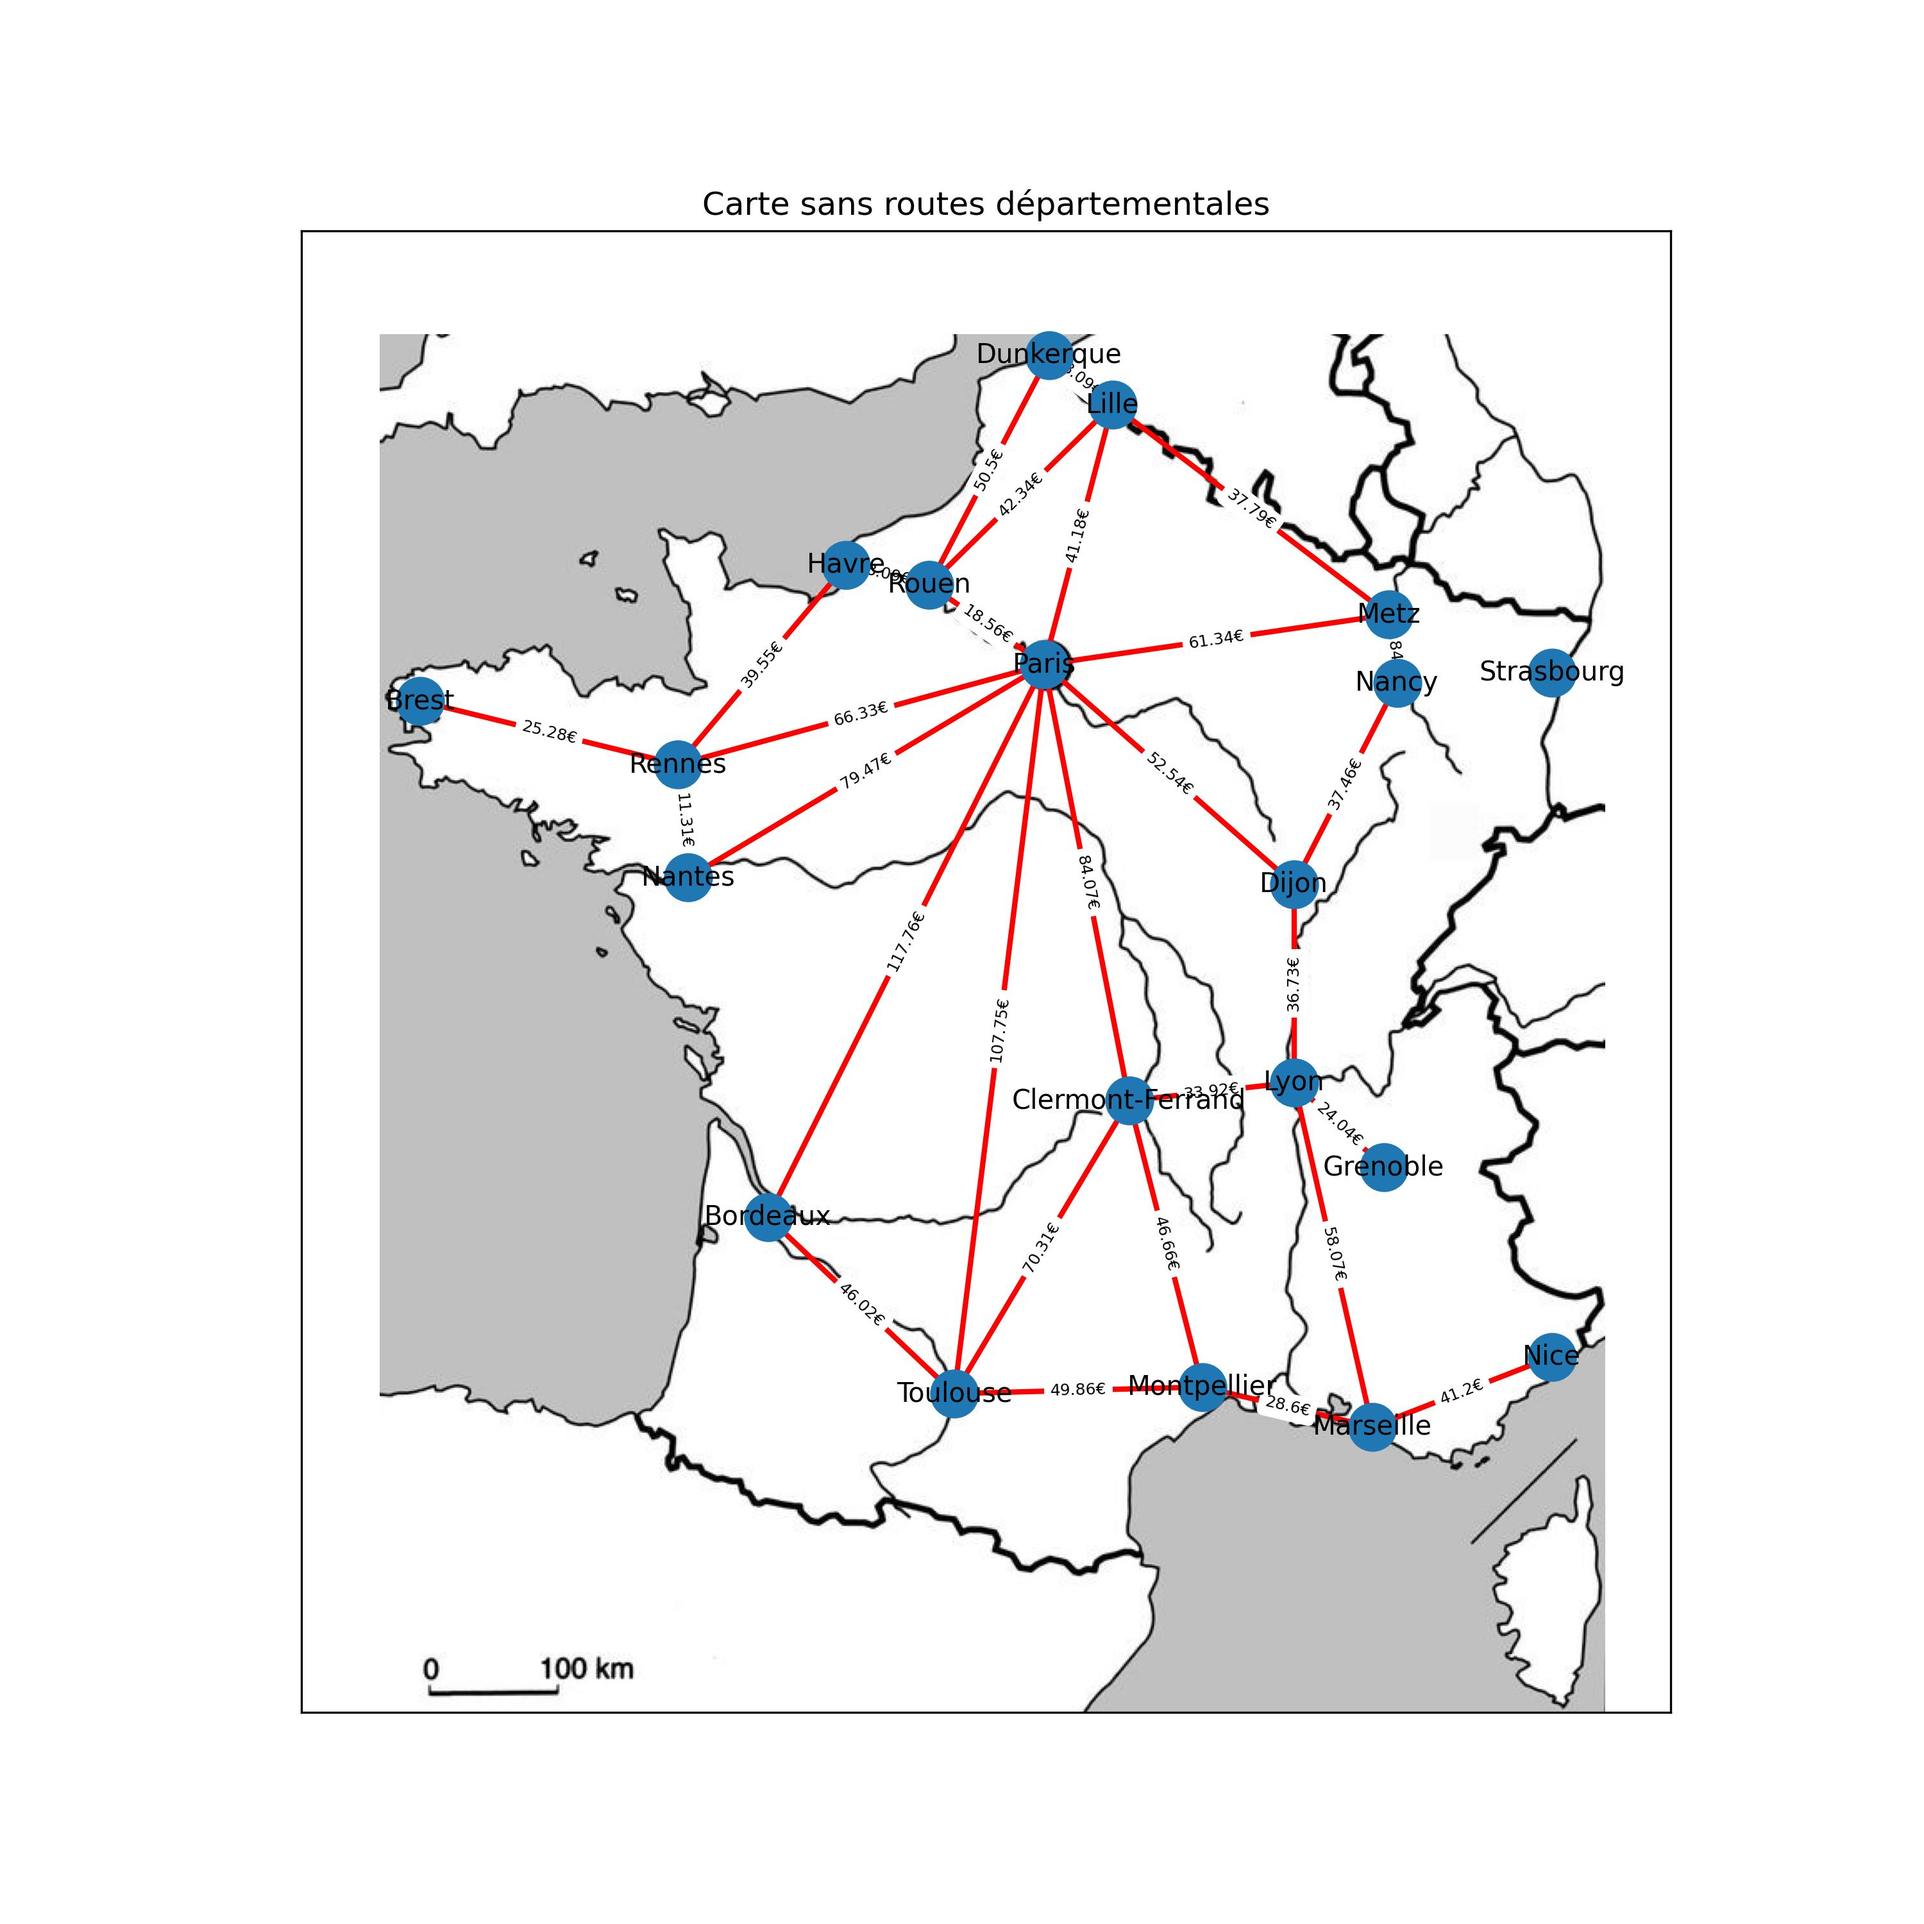
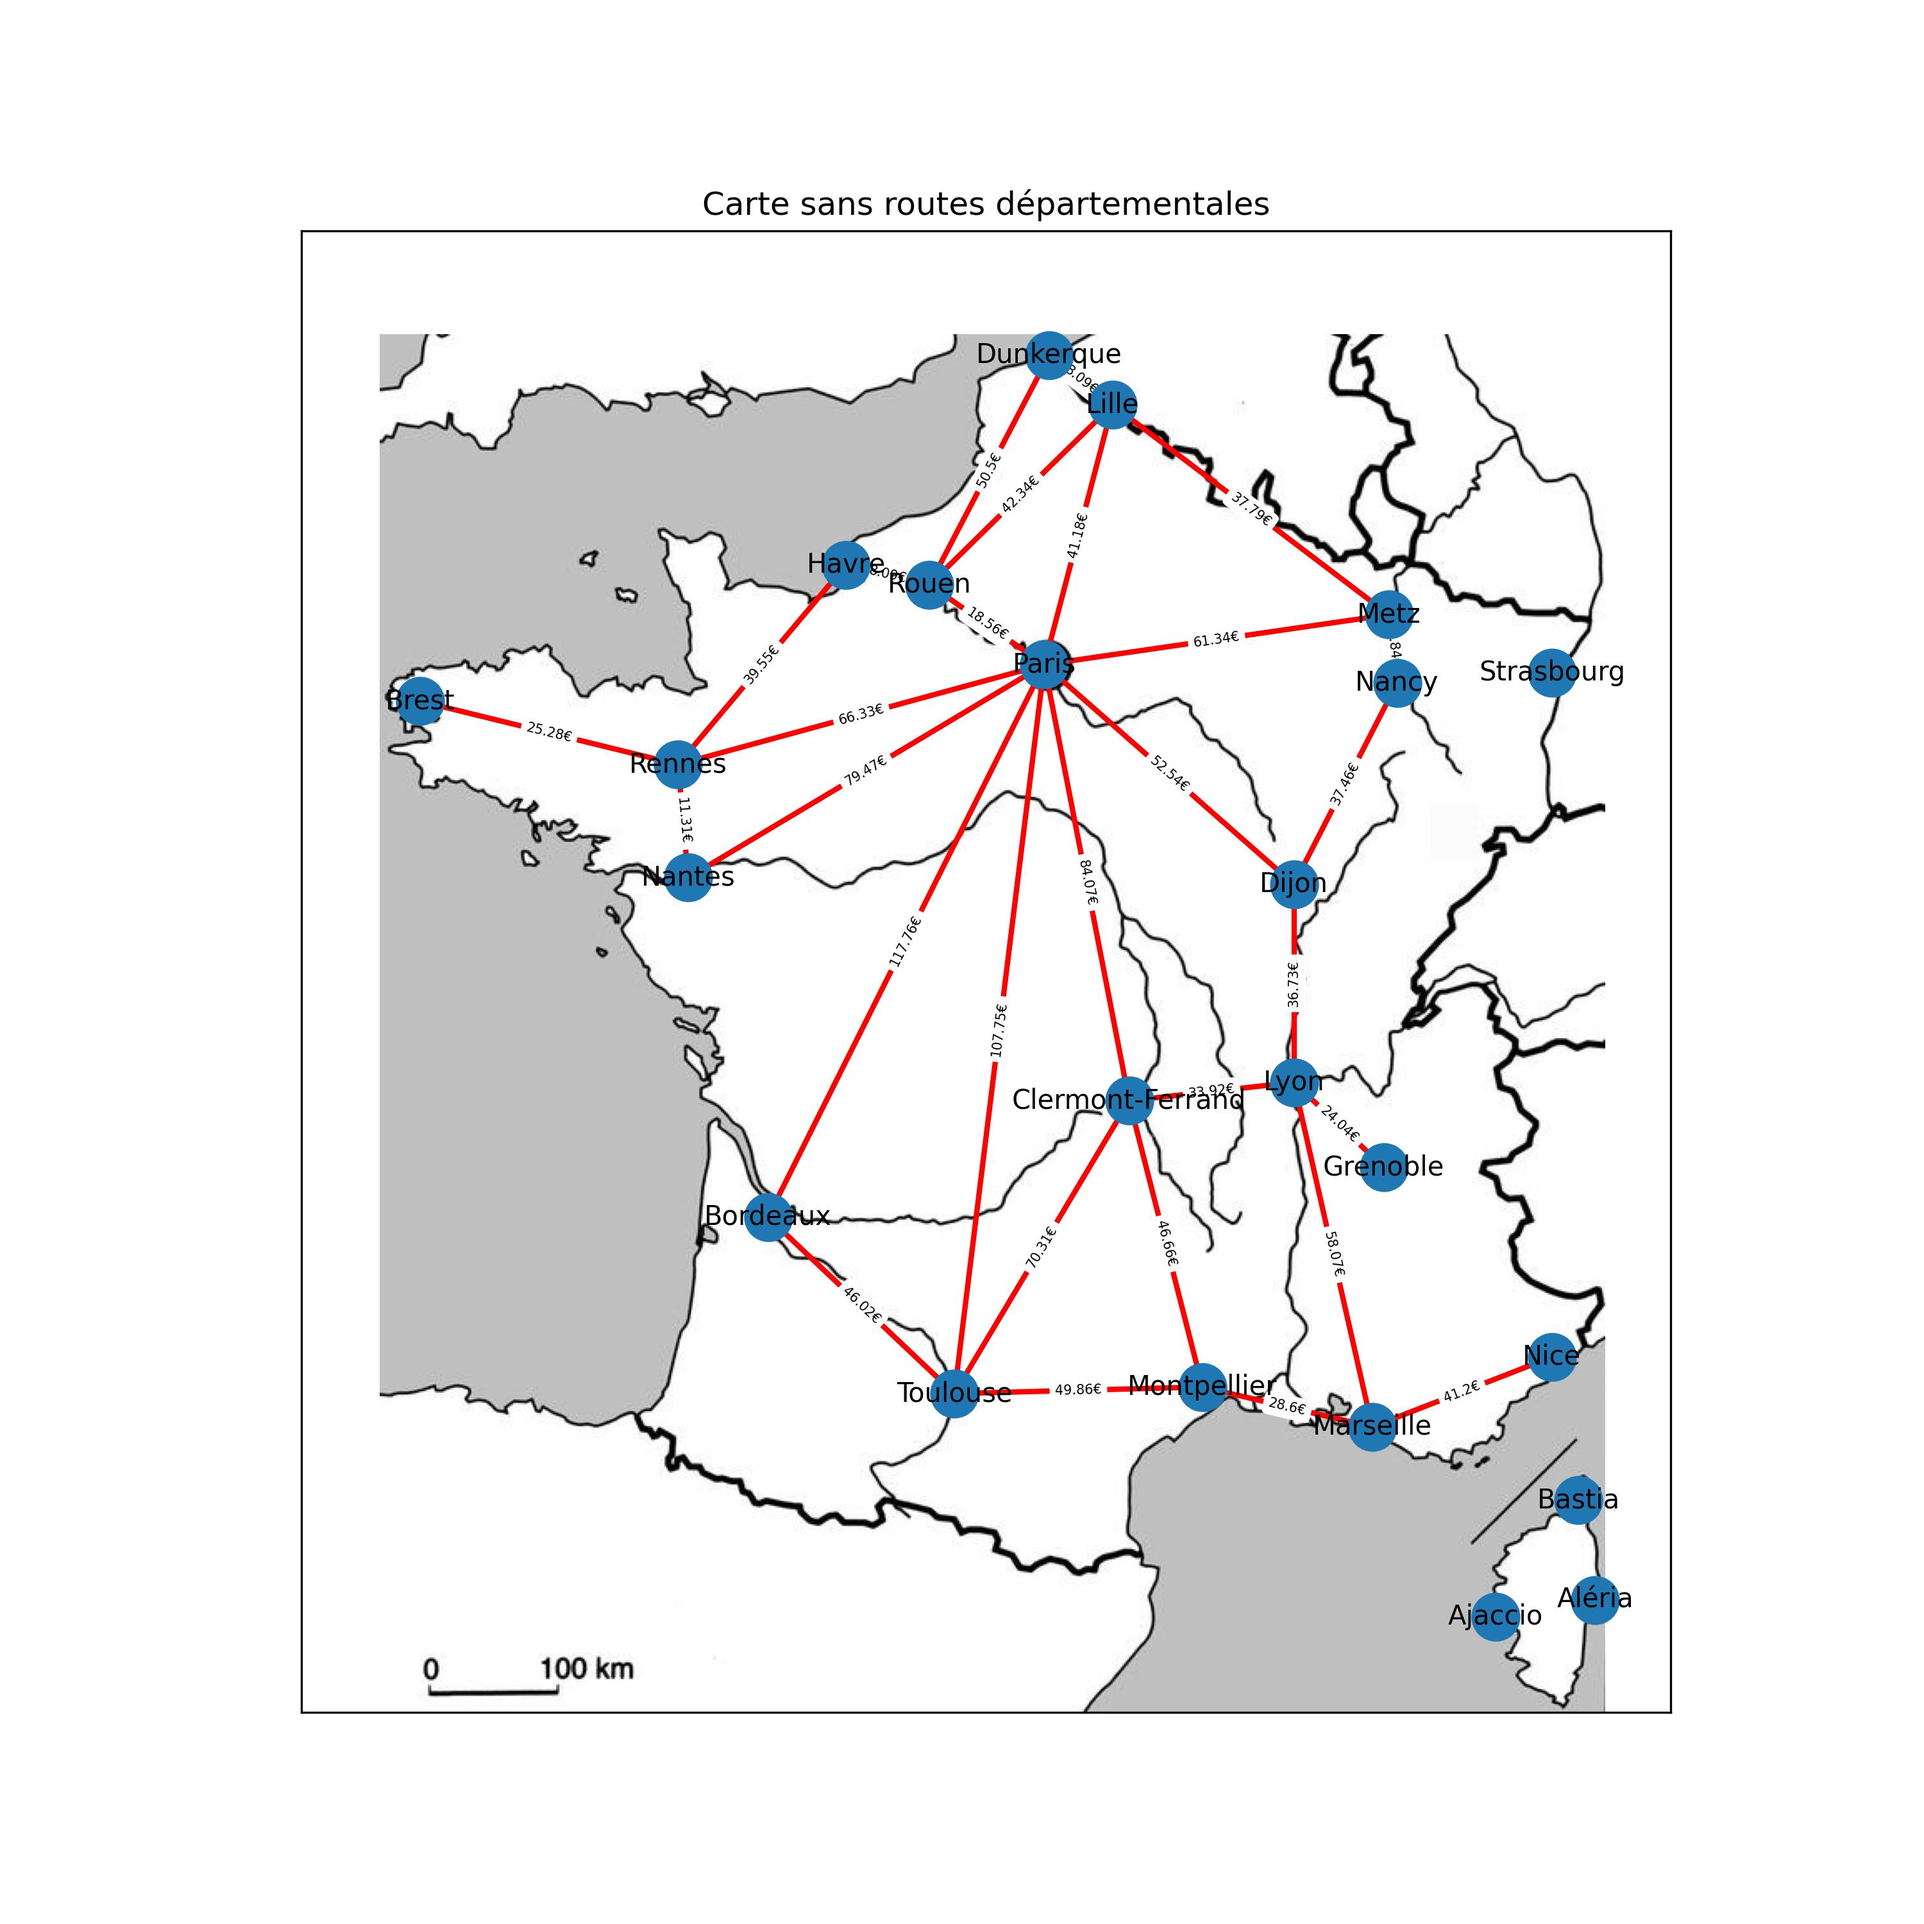
add manual connexe and Corse cities

diff --git a/TP2_carte_son.py b/TP2_carte_son.py
@@ -1,5 +1,6 @@
 import csv
 import heapq
+import random
 import networkx as nx
 import matplotlib.pyplot as plt
 import matplotlib.image as mpimg
@@ -89,7 +90,7 @@ def dessiner_graphe_sur_carte(graphe, sommets, chemin_image_carte, titre, show_c
             graphe,
             pos=sommets,
             edge_labels=edge_labels,
-            font_size=6,
+            font_size=5,
             ax=ax
         )
 
@@ -99,7 +100,7 @@ def dessiner_graphe_sur_carte(graphe, sommets, chemin_image_carte, titre, show_c
             graphe,
             pos=sommets,
             edge_labels=edge_labels,
-            font_size=6,
+            font_size=5,
             ax=ax
         )
 
@@ -112,8 +113,8 @@ def dessiner_graphe_sur_carte(graphe, sommets, chemin_image_carte, titre, show_c
     plt.show()
 
 def dessiner_graphe_sur_carte_avec_chemin(chemin: list, graphe, sommets, chemin_image_carte, critere, poids_total, titre, contrainte = "", direction=False, export_path=None):
+    # redessiner la carte
     img = mpimg.imread(chemin_image_carte)
-    
     plt.rcParams["figure.figsize"] = (10, 10)
     fig, ax = plt.subplots()
     ax.imshow(img,cmap="gray")
@@ -131,7 +132,7 @@ def dessiner_graphe_sur_carte_avec_chemin(chemin: list, graphe, sommets, chemin_
 
 
     # Surligner en rouge les sommets intermédiaires du chemin
-    if len(chemin) > 2:
+    if len(chemin) >=2 :
         nx.draw_networkx_nodes(
             graphe,
             pos=sommets,
@@ -183,7 +184,7 @@ def dessiner_graphe_sur_carte_avec_chemin(chemin: list, graphe, sommets, chemin_
                 graphe,
                 pos=sommets,
                 edge_labels=edge_labels,
-                font_size=6,
+                font_size=5,
                 ax=ax
             )
             plt.title(f"{chemin[0]} -> {chemin[-1]} {contrainte}: {titre}. Cout total = {poids_total}€")
@@ -193,7 +194,7 @@ def dessiner_graphe_sur_carte_avec_chemin(chemin: list, graphe, sommets, chemin_
                 graphe,
                 pos=sommets,
                 edge_labels=edge_labels,
-                font_size=6,
+                font_size=5,
                 ax=ax
             )
             plt.title(f"{chemin[0]} -> {chemin[-1]} {contrainte}: {titre}. Duree totale = {poids_total}m")
@@ -268,8 +269,9 @@ def meilleur_chemin(graphe, ville_depart, ville_arrivee, critere) -> tuple[list,
     # 3. Reconstruction du chemin
     meilleur_chemin = []
     if distances[ville_arrivee] == float('inf'):
-        meilleur_chemin = [ville_depart,ville_depart]
-        print(f"Aucun chemin n'existe entre {ville_depart} et {ville_arrivee}.")
+        meilleur_chemin = [ville_depart,ville_arrivee]
+        poids_total = 0
+        print(f"    Aucun chemin n'existe entre {ville_depart} et {ville_arrivee}.")
         return meilleur_chemin, poids_total
 
     ville_courante = ville_arrivee
@@ -282,11 +284,57 @@ def meilleur_chemin(graphe, ville_depart, ville_arrivee, critere) -> tuple[list,
 
     # poids total
     poids_total = distances[ville_arrivee]
+
+    for i in range(len(meilleur_chemin)-1):
+        u = meilleur_chemin[i]
+        v = meilleur_chemin[i+1]
+        devise = '€' if critere=='cout' else ' minutes'
+        distance = graphe.get_edge_data(u, v).get(critere)
+        type = poids = graphe.get_edge_data(u, v).get('type')
+        print(f'    {u} -> {v} ({type}): {distance}{devise}')
+    print(f'    *TOTAL* = {poids_total}{devise}')
     
 
 
 
     return meilleur_chemin, poids_total
+
+def connexe_manuel(graphe) -> bool:
+
+    sommets_vu = set()  # liste des sommets déjà explorés
+    continents = []  # liste des groupes de sommets isolés
+
+    for ville_depart in graphe.nodes():
+
+        if ville_depart in sommets_vu:
+            continue
+
+        print(f"Exploration à partir de: {ville_depart}")
+
+        # DFS
+        stack = [ville_depart]
+        continent = set([ville_depart])
+        sommets_vu.add(ville_depart)
+
+        while stack:
+            node = stack.pop()
+
+            for neighbor in graphe.neighbors(node):
+                if neighbor not in sommets_vu:
+                    sommets_vu.add(neighbor)
+                    continent.add(neighbor)
+                    stack.append(neighbor)
+
+                    # Show progress
+                    print(f"{neighbor} est connectée")
+
+        continents.append(continent)
+
+    # Graphe est connexe s'il y a un seul continent
+    est_connexe = (len(continents) == 1)
+
+    return est_connexe, continents
+
 
 def filtre_graphe(graphe_initiale, type_a_exclure):
     G_filtre = nx.Graph()
@@ -347,17 +395,26 @@ if __name__ == "__main__":
     # =================================================================================================
     
     # Q1
-    if nx.is_connected(G):
+    est_connexe, continents = connexe_manuel(G)
+    if est_connexe:
         connexe = "est connexe"
     else: connexe = "n'est pas connexe"
+    print()
     print(f"Q1: Le graphe {connexe}")
+
+    print(f"Le graphe contient {len(continents)} groupe(s) connexe(s)")
+    for continent in continents:
+        print(f"    Continent ({continents.index(continent)+1}) contient {len(continent)} villes(s):")
+        for ville in continent:
+            print(f"    - {ville}")
+        
     dessiner_graphe_sur_carte(G, sommets, chemin_image_carte, f"graphe {connexe}")
 
 
 
     # Q2 - chemin le plus court
-    ville_depart="Lille"
-    ville_arrivee="Marseille"
+    ville_depart="Ajaccio"
+    ville_arrivee="Bastia"
     print(f"Q2: Chemin le plus court entre : {ville_depart} et {ville_arrivee}")
     chemin_duree, poids_total = meilleur_chemin(graphe=G, ville_depart=ville_depart, ville_arrivee=ville_arrivee, critere='duree')
     dessiner_graphe_sur_carte_avec_chemin(chemin_duree, G, sommets, chemin_image_carte, titre='chemin le plus court', critere='duree', poids_total=poids_total)
@@ -365,35 +422,35 @@ if __name__ == "__main__":
 
 
     # Q3 - chemin le moins cher
-    ville_depart="Lille"
-    ville_arrivee="Marseille"
+    ville_depart="Ajaccio"
+    ville_arrivee="Bastia"
     print(f"Q3: Chemin le moins cher entre : {ville_depart} et {ville_arrivee}")
     chemin_cout, poids_total = meilleur_chemin(graphe=G, ville_depart=ville_depart, ville_arrivee=ville_arrivee, critere='cout')
     dessiner_graphe_sur_carte_avec_chemin(chemin_cout, G, sommets, chemin_image_carte, titre='chemin le moins cher', critere='cout', poids_total=poids_total)
 
 
 
-    # # Q4 - chemin le plus court SANS autoroutes
-    # ville_depart="Paris"
-    # ville_arrivee="Havre"
+    # Q4 - chemin le plus court SANS autoroutes
+    ville_depart="Paris"
+    ville_arrivee="Havre"
     
-    # print(f"Q4: Chemin le plus court SANS autoroutes entre : {ville_depart} et {ville_arrivee}")
-    # G_filtre = filtre_graphe(G,'a')
-    # dessiner_graphe_sur_carte(G_filtre, sommets, chemin_image_carte, "Carte sans autoroutes", show_duree=True, export_path="carte_sans_autoroute_avec_duree.jpg")
-    # chemin_duree_sans_a, poids_total = meilleur_chemin(graphe=G_filtre, ville_depart=ville_depart, ville_arrivee=ville_arrivee, critere='duree')
-    # dessiner_graphe_sur_carte_avec_chemin(chemin_duree_sans_a, G_filtre, sommets, chemin_image_carte, titre='chemin le plus court', critere='duree', contrainte="sans autoroutes")
+    print(f"Q4: Chemin le plus court SANS autoroutes entre : {ville_depart} et {ville_arrivee}")
+    G_filtre = filtre_graphe(G,'a')
+    dessiner_graphe_sur_carte(G_filtre, sommets, chemin_image_carte, "Carte sans autoroutes", show_duree=True, export_path="carte_sans_autoroute_avec_duree.jpg")
+    chemin_duree_sans_a, poids_total = meilleur_chemin(graphe=G_filtre, ville_depart=ville_depart, ville_arrivee=ville_arrivee, critere='duree')
+    dessiner_graphe_sur_carte_avec_chemin(chemin_duree_sans_a, G_filtre, sommets, chemin_image_carte, titre='chemin le plus court', critere='duree', poids_total=poids_total, contrainte="sans autoroutes")
 
 
 
-    # # Q5 - chemin le moins cher SANS routes départementales
-    # ville_depart="Brest"
-    # ville_arrivee="Nice"
+    # Q5 - chemin le moins cher SANS routes départementales
+    ville_depart="Brest"
+    ville_arrivee="Nice"
 
-    # print(f"Q5: Chemin le moins cher SANS routes départementales entre : {ville_depart} et {ville_arrivee}")
-    # G_filtre = filtre_graphe(G,'d')
-    # dessiner_graphe_sur_carte(G_filtre, sommets, chemin_image_carte, "Carte sans routes départementales", show_cout=True, export_path="carte_sans_dept_avec_cout.jpg")
-    # chemin_cout_sans_d, poids_total = meilleur_chemin(graphe=G_filtre, ville_depart=ville_depart, ville_arrivee=ville_arrivee, critere='cout')
-    # dessiner_graphe_sur_carte_avec_chemin(chemin_cout_sans_d, G_filtre, sommets, chemin_image_carte, titre='chemin le moins cher', critere='cout', contrainte="sans routes départementales")
+    print(f"Q5: Chemin le moins cher SANS routes départementales entre : {ville_depart} et {ville_arrivee}")
+    G_filtre = filtre_graphe(G,'d')
+    dessiner_graphe_sur_carte(G_filtre, sommets, chemin_image_carte, "Carte sans routes départementales", show_cout=True, export_path="carte_sans_dept_avec_cout.jpg")
+    chemin_cout_sans_d, poids_total = meilleur_chemin(graphe=G_filtre, ville_depart=ville_depart, ville_arrivee=ville_arrivee, critere='cout')
+    dessiner_graphe_sur_carte_avec_chemin(chemin_cout_sans_d, G_filtre, sommets, chemin_image_carte, titre='chemin le moins cher', critere='cout', poids_total=poids_total, contrainte="sans routes départementales")
 
     # # ==============================================================================================
 
